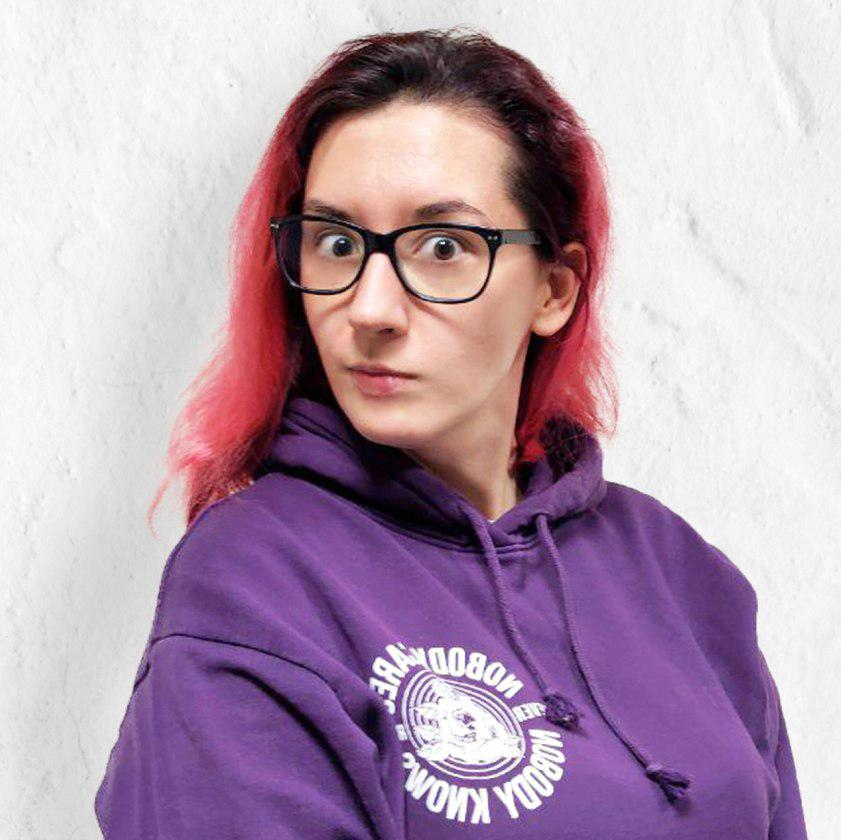
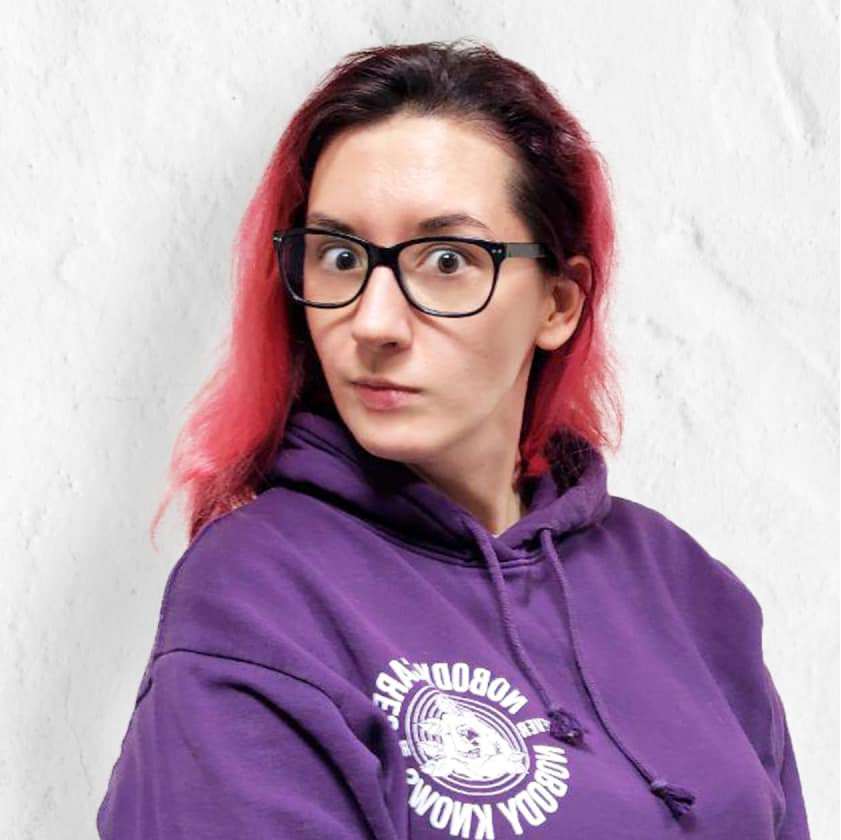
1. правки в контент: телефон, мейл, описание карточки редактора, 2019 год в футере. 2. Картинки: новая для пакколы, новая для команды, чтобы не скакал фон. 3. Убрали баг с кнопками в сладере. 4. Добавили прелоадер на загрузку

diff --git a/src/blocks/loader/loader.scss b/src/blocks/loader/loader.scss
@@ -1,0 +1,79 @@
+// В этом файле должны быть стили для БЭМ-блока loader, его элементов,
+// модификаторов, псевдоселекторов, псевдоэлементов, @media-условий...
+// Очередность: http://nicothin.github.io/idiomatic-pre-CSS/#priority
+
+$color-4: #5FBFCD;
+$color-3: #5CBDF5;
+$color-2: #DEF2FD;
+$color-1: #DDF8F7;
+$color-5: #1CD3CC;
+
+$color: $color-1, $color-2, $color-3, $color-4, $color-5;
+
+@mixin anim() {
+  @keyframes scale {
+    0% {
+        transform: scale(1);
+    }
+    50%,
+    75% {
+      transform: scale(2.5);
+    }
+    78%, 100% {
+      opacity: 0;
+    }
+  }
+}
+
+body {
+  //overflow:hidden;
+}
+
+.loader-wrapper {
+  position: fixed;
+  width: 100%;
+  height: 100%;
+  top: 0;
+  left: 0;
+  bottom: 0;
+  right: 0;
+  background-color: #fff;
+  z-index: 9999;
+}
+
+.loader {
+  display: flex;
+  justify-content: center;
+  align-items: center;
+  height: 100vh;
+  overflow: hidden;
+  animation-delay: 1s;
+}
+
+@for $i from 1 through 5 {
+  .item-#{$i} {
+    width: 20px;
+    height: 20px;
+    background: #f583a1;
+    //border-radius: 50%;
+    @include anim();
+    background-color: nth($color, $i);
+    margin: 7px;
+    display: flex;
+    justify-content: center;
+    align-items: center;
+
+    &:before {
+      content: '';
+      width: 20px;
+      height: 20px;
+      //border-radius: 50%;
+      background-color: nth($color, $i);
+      opacity: 0.7;
+      animation: scale 2s infinite cubic-bezier(0, 0, 0.49, 1.02);
+      animation-delay: 200ms * $i;
+      transition: 0.5s all ease;
+      transform: scale(1);
+    }
+  }
+}

diff --git a/src/blocks/slider/slider.scss b/src/blocks/slider/slider.scss
@@ -80,7 +80,16 @@
             @media (min-width: $screen-md)  {
               height: 35px;
               width: 35px;
+              line-height: 34px;
             }
+          }
+        }
+
+        &.slick-active {
+          top: -1px;
+
+          @media (min-width: $screen-md)  {
+            top: -2px;
           }
         }
 
@@ -88,6 +97,7 @@
             opacity: 1;
             border: 1px solid #FC364D;
             border-radius: 50%;
+            line-height: 28px;
 
             @media (min-width: $screen-sm) {
               border-width: 2px;

diff --git a/src/js/script.js b/src/js/script.js
@@ -684,4 +684,13 @@ $(window).resize(function(){
        })
    }
 })
+
+$(window).on('load', function () {
+  $preloader = $('.loader-wrapper'),
+    $loader = $preloader.find('.loader');
+  $loader.fadeOut();
+  $preloader.delay(300).fadeOut('slow');
+  $('body').css('overflow', 'scroll');
+});
+
 });

diff --git a/src/scss/style.scss b/src/scss/style.scss
@@ -30,3 +30,4 @@
 @import './src/blocks/attache/attache.scss';
 @import './src/blocks/modal/modal.scss';
 @import './src/blocks/policy/policy.scss';
+@import './src/blocks/loader/loader.scss';
